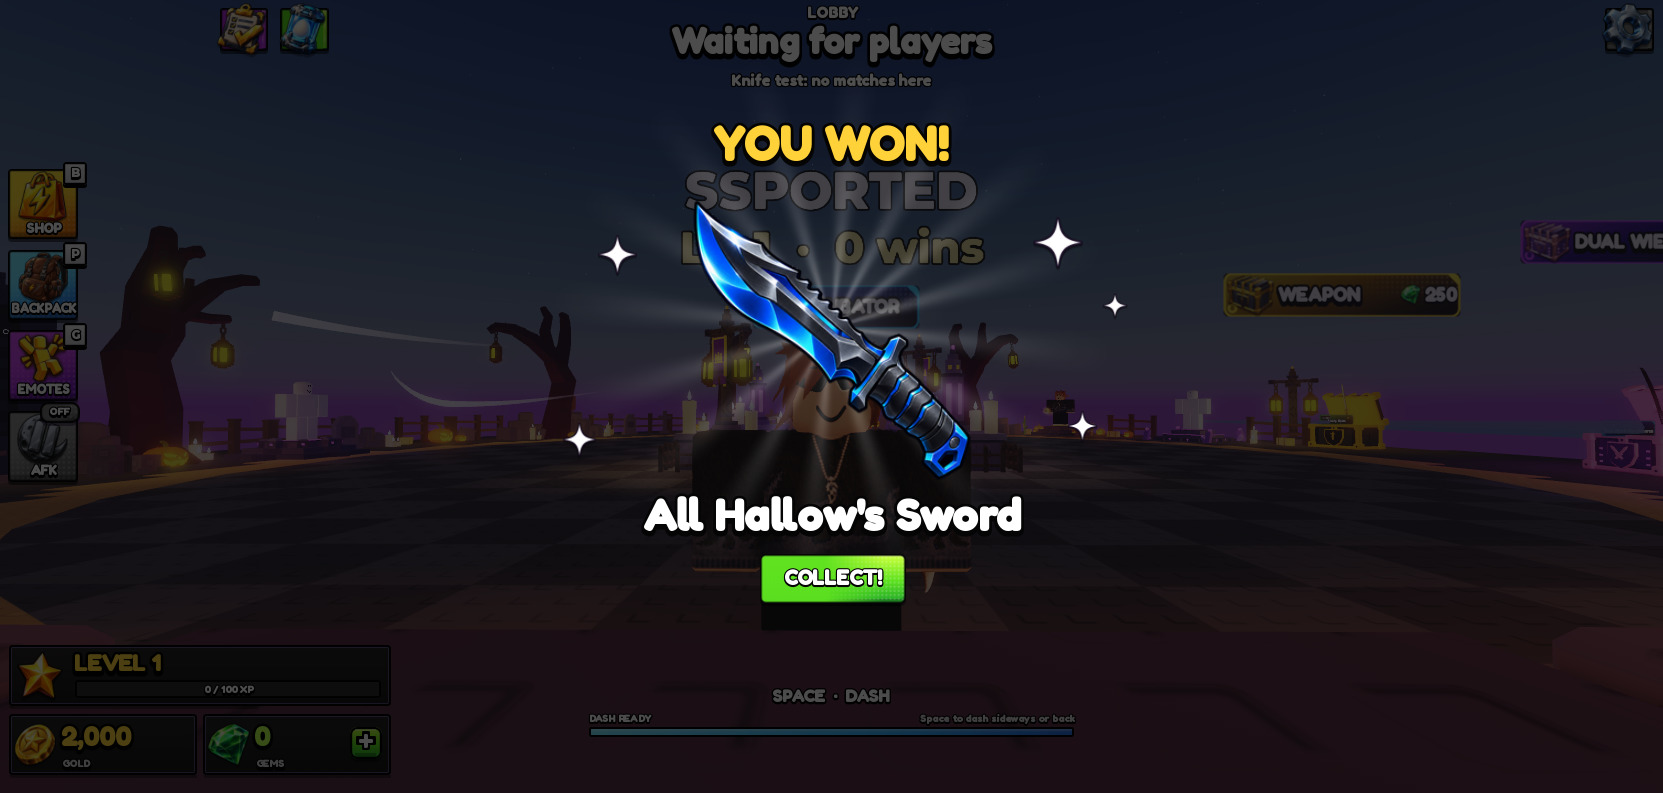
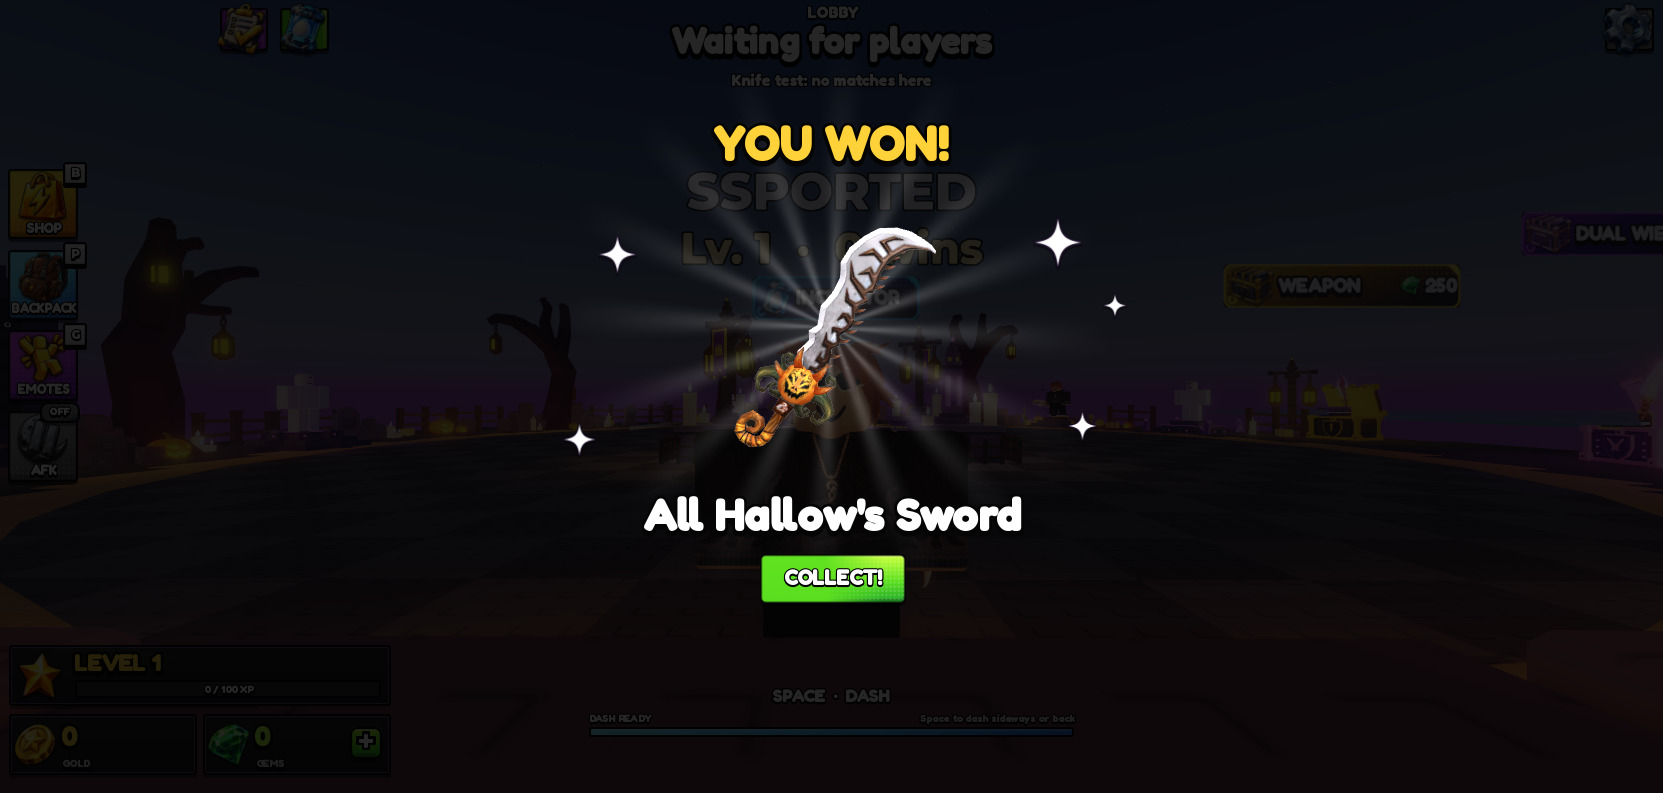
HOS-SPIN-001: a weapon prize shows its 3D render in the popup
Knife skins have no 2D icon, so the prize popup uses WeaponShopUI.renderSkin
(the Shop reward reveal's render) in place of the icon.

Claude-Session: https://claude.ai/code/session_01FqmUsGP8fanTbbcKNoggbe

diff --git a/docs/HOS-SPIN-001 Spin wheel rewards and screen.md b/docs/HOS-SPIN-001 Spin wheel rewards and screen.md
@@ -98,7 +98,7 @@ Tested:
   - The wallet ended at exactly 2,000 Gold, the sum of the labels.
   - Shards flew to the incubator button and coins to the wallet, each from its own wheel.
 - **Weapon:** I forced one roll to slot 1 (temporarily, in the playtest only).
-  - The single wheel landed on the weapon, and the popup showed "All Hallow's Sword".
+  - The single wheel landed on the weapon, and the popup showed "All Hallow's Sword" as its 3D render.
   - The profile owned and had equipped `knife_rb_all_hallow_s_sword`, and Gold was unchanged.
 
 **Opening and closing:** walking up to the front of the wheel opens the screen, and walking away closes it. If the player closes it with X, it stays shut until they walk away and come back. It never opens in a match, while spectating, or over another panel.
@@ -125,7 +125,7 @@ Built by `tools/build/HOS-SPIN-001/build_ui.lua`. The controller is `StarterPlay
 
 ## Waiting on Matthew / Hunter
 - **The weapon:** it's the All Hallow's Sword (legendary) as a stand-in. Say which one and it's one line (`weaponId` on slot 1).
-  - The popup uses the generic knife icon, because knife skins have no 2D icon; the shop shows them as 3D previews.
+  - Knife skins have no 2D icon, so a weapon prize shows the shop's 3D render of the skin instead (`WeaponShopUI.renderSkin`), as the shop's reward reveal does. Matthew: "If no 2d icon, then show the viewport used."
 - **Robux spin packs:** prices are placeholders (49 / 349 / 2,900, as in the reference). They need developer products created, and the ids go in `SpinWheelConfig.PACKS`. Until then the tiles say "Spin packs aren't on sale yet".
 - **Free spin interval:** 15 minutes, to match the reference. Change `FREE_SECONDS` if you want something else.
 - The stud texture on the wheel is still the egg-pack one with "L"s until the custom stud texture is uploaded (see [[HOS-LOBBY-007 Spin wheel]]).
